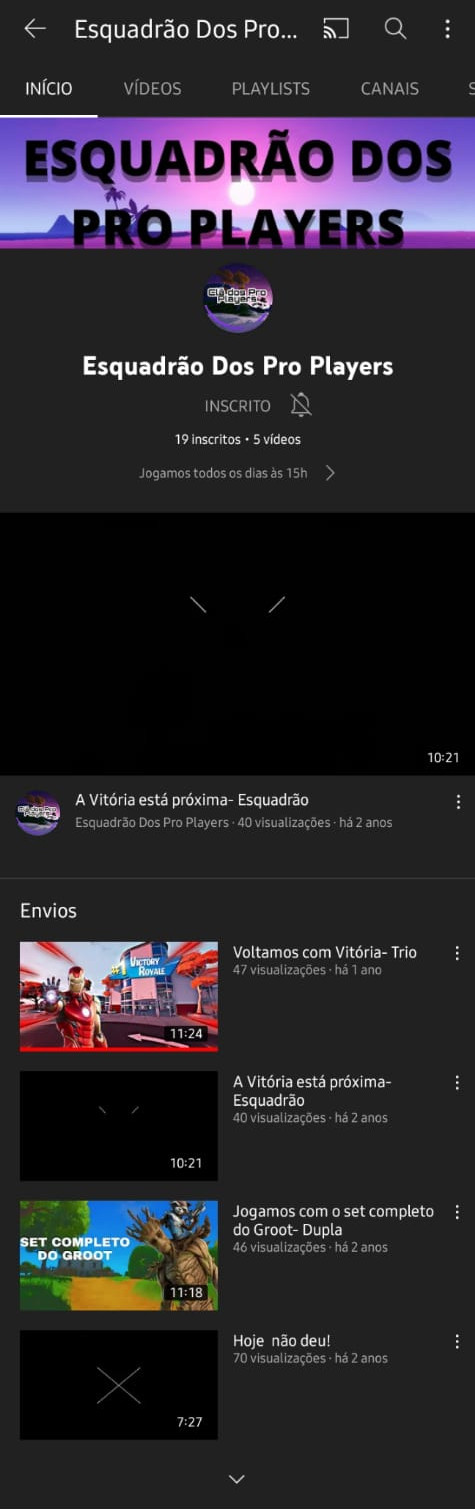
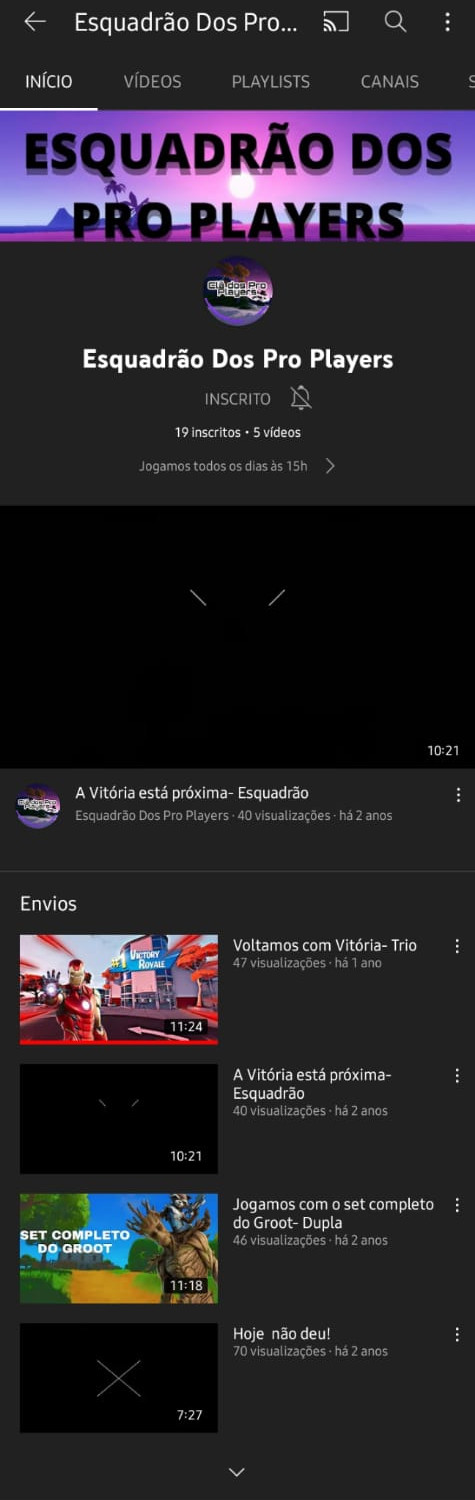
Transformando para minhas redes  sociais

diff --git a/youtube.html b/youtube.html
@@ -11,7 +11,7 @@
     </style>
 </head>
 <body>
-    <img src="imagens/tela-youtube.png" alt="">
-    <a href="https://www.youtube.com/cursoemvideo/playlists" target="_blank">ACESSE</a>
+    <img src="imagens/imagem do meu youtube.jpg" alt="">
+    <a href="https://www.youtube.com/channel/UCPMpbVmEVS3HyupuWBdSMSQ" target="_blank">ACESSE</a>
 </body>
 </html>

diff --git a/facebook.html b/facebook.html
@@ -8,7 +8,7 @@
     <link rel="stylesheet" href="estilos/social.css">
 </head>
 <body>
-    <img src="imagens/tela-facebook.jpg" alt="">
+    <img src="imagens/imagem do meu facebook.jpeg" alt="">
     <a href="https://www.facebook.com/mateus.modesto.50309/" target="_blank">ACESSE</a>
 </body>
 </html>

diff --git a/instagram.html b/instagram.html
@@ -8,7 +8,7 @@
     <link rel="stylesheet" href="estilos/social.css">
 </head>
 <body>
-    <img src="imagens/tela-instagram.jpg" alt="">
+    <img src="imagens/Imagem do meu insta.jpg" alt="">
     <a href="https://www.instagram.com/_mateusmodesto/" target="_blank">ACESSE</a>
 </body>
 </html>

diff --git a/github.html b/github.html
@@ -8,7 +8,7 @@
     <link rel="stylesheet" href="estilos/social.css">
 </head>
 <body>
-    <img src="imagens/tela-github.jpg" alt="">
+    <img src="imagens/imagem do meu github.jpg" alt="">
     <a href="https://www.github.com/mateusmodesto/" target="_blank">ACESSE</a>
 </body>
 </html>
